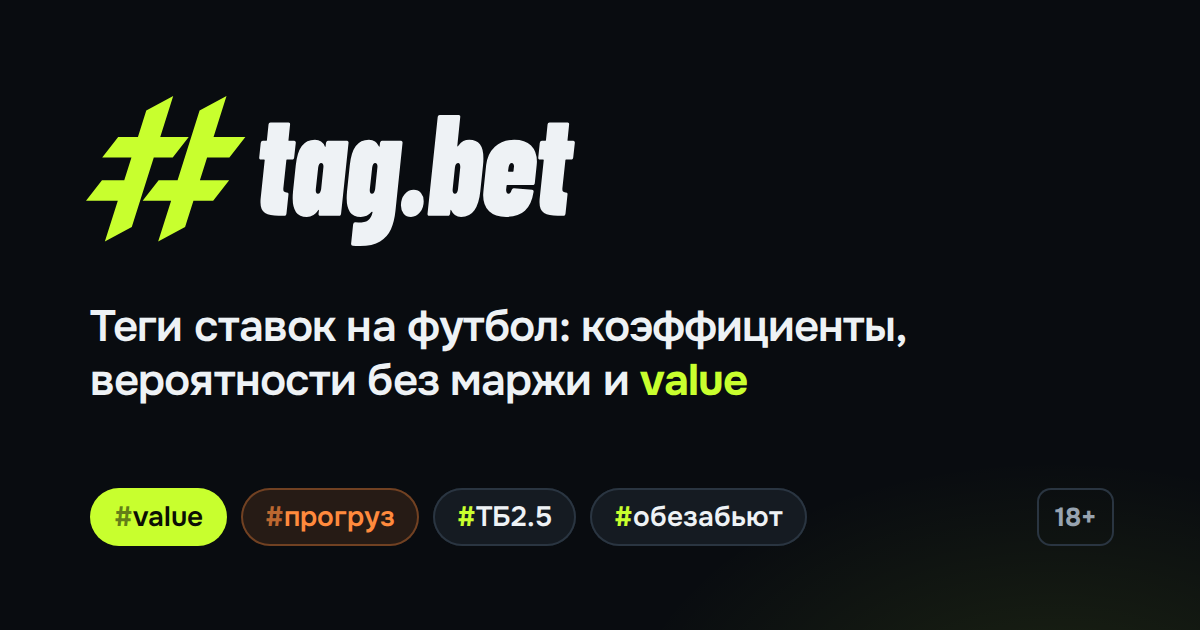
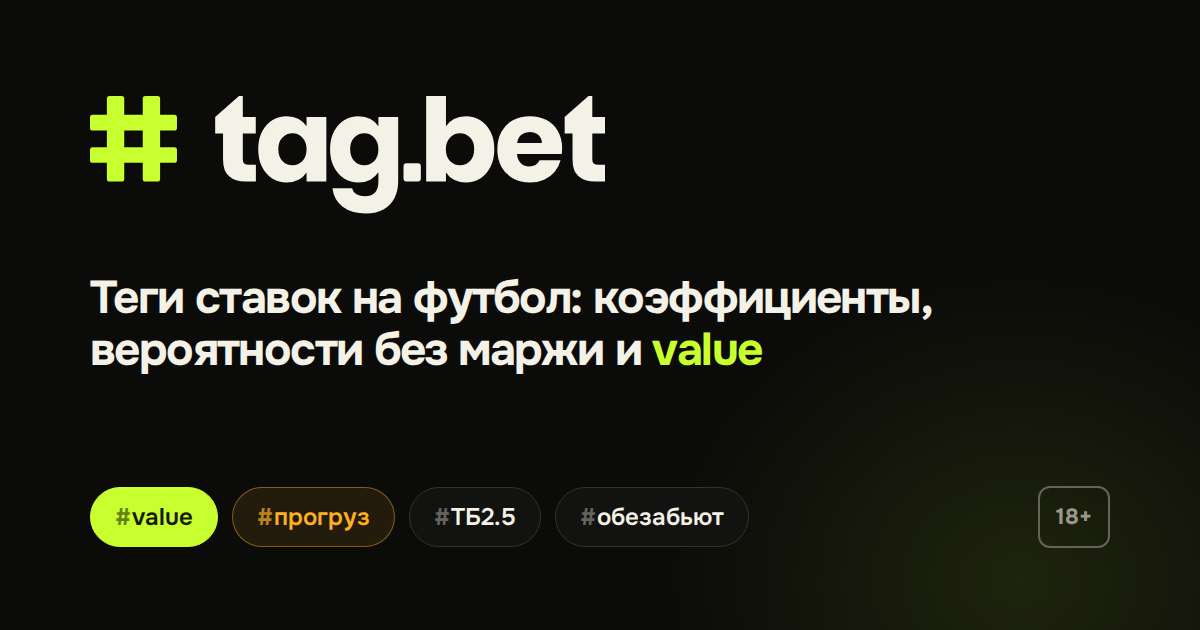
Новый логотип: прямая решётка + tag.bet (Poppins Bold) в кривых
- Перерисован в вектор по утверждённому варианту: надпись — Poppins
  Bold (SIL OFL) со срезом у «t» от кончика перекладины к верху и
  точкой-квадратом; решётка прямая, высотой с «b», по базовой линии.
  Дефекты растра (хвост «g», «язык» у «e», волнистые края) ушли.
- Цвета — как на сайте: лайм #C8FF2E, тёплый белый #F4F1E6.
- Заменены: знак в шапке и в кружке «Все теги», логотип в подвале,
  иконка вкладки, иконка для iPhone, аватарка, превью ссылок (og.png)
  и файлы в public/brand.

Claude-Session: https://claude.ai/code/session_01LqCxNKeCAKNwhNzoBsjYvY

diff --git a/components/logo-paths.ts b/components/logo-paths.ts
@@ -1,12 +1,12 @@
-// Сгенерировано из векторной версии логотипа (знак — переплетённая решётка,
-// надпись — Barlow Condensed Black Italic в кривых, лицензия SIL OFL).
+// Сгенерировано из векторной версии логотипа: знак — прямая решётка (бруски чуть
+// тоньше штриха букв, высота = высоте «b»), надпись — Poppins Bold (SIL OFL) в кривых:
+// у «t» срез от кончика перекладины к верху, точка — скруглённый квадрат, набор плотный.
 // Файлы для внешнего использования — в public/brand/.
-export const LOGO_VIEWBOX = '0 0 859.4 263.7'
-export const MARK_VIEWBOX = '0 0 280.17 256'
-export const LOGO_ASPECT = 3.2592
-export const MARK_ASPECT = 1.0944
+export const LOGO_VIEWBOX = '0 0 4455 1020'
+export const MARK_VIEWBOX = '0 0 752 740'
+export const LOGO_ASPECT = 4.3676
+export const MARK_ASPECT = 1.0162
 export const MARK_D =
-  'M153.30 0.00L105.95 25.57L91.28 72.00L56.58 72.00L28.50 108.00L79.91 108.00L67.27 148.00L28.08 148.00L0.00 184.00L55.90 184.00L33.15 256.00L80.49 230.43L119.18 108.00L152.50 108.00L180.58 72.00L130.55 72.00ZM126.87 256.00L174.21 230.43L188.89 184.00L223.58 184.00L251.67 148.00L200.26 148.00L212.90 108.00L252.08 108.00L280.17 72.00L224.27 72.00L247.02 0.00L199.68 25.57L160.99 148.00L127.67 148.00L99.58 184.00L149.62 184.00Z'
-export const TEXT_TRANSFORM = 'matrix(0.217741 0 0 0.253187 297.14 210.51)'
+  'M146 718Q146 740 168 740H274Q296 740 296 718V578H456V718Q456 740 478 740H584Q606 740 606 718V578H730Q752 578 752 556V464Q752 442 730 442H606V298H730Q752 298 752 276V184Q752 162 730 162H606V22Q606 0 584 0H478Q456 0 456 22V162H296V22Q296 0 274 0H168Q146 0 146 22V162H22Q0 162 0 184V276Q0 298 22 298H146V442H22Q0 442 0 464V556Q0 578 22 578H146ZM296 442V298H456V442Z'
 export const TEXT_D =
-  'M300 -390H258Q253 -390 253 -385L229 -192Q227 -174 234.0 -167.5Q241 -161 256 -162H258Q264 -162 267.5 -158.0Q271 -154 270 -147L254 -15Q253 -8 248.5 -4.0Q244 0 238 0H191Q118 0 81.0 -19.0Q44 -38 44 -93Q44 -108 45 -116L78 -385Q80 -390 74 -390H47Q40 -390 36.5 -394.0Q33 -398 34 -405L46 -505Q49 -520 63 -520H90Q94 -520 96 -525L109 -633Q110 -640 114.0 -644.0Q118 -648 125 -648H271Q277 -648 280.5 -644.0Q284 -640 283 -633L270 -525Q270 -520 274 -520H316Q323 -520 326.5 -516.0Q330 -512 329 -505L316 -405Q315 -398 311.0 -394.0Q307 -390 300 -390ZM589.0 -520H743.0Q749.0 -520 752.5 -516.0Q756.0 -512 755.0 -505L695.0 -15Q694.0 -8 690.0 -4.0Q686.0 0 679.0 0H526.0Q519.0 0 515.5 -4.0Q512.0 -8 513.0 -15L516.0 -37Q516.0 -41 514.0 -41.0Q512.0 -41 510.0 -38Q476.0 8 418.0 8Q358.0 8 331.0 -25.0Q304.0 -58 304.0 -121Q304.0 -145 307.0 -170L329.0 -350Q340.0 -439 377.5 -483.5Q415.0 -528 484.0 -528Q542.0 -528 564.0 -481Q566.0 -478 568.0 -478.5Q570.0 -479 570.0 -483L573.0 -505Q574.0 -512 578.5 -516.0Q583.0 -520 589.0 -520ZM534.0 -185 552.0 -335Q554.0 -349 549.0 -358.0Q544.0 -367 534.0 -367Q524.0 -367 518.0 -358.0Q512.0 -349 510.0 -335L491.0 -185Q489.0 -170 493.5 -161.5Q498.0 -153 508.0 -153Q518.0 -153 525.0 -162.0Q532.0 -171 534.0 -185ZM1025.0 -520H1179.0Q1185.0 -520 1188.5 -516.0Q1192.0 -512 1191.0 -505L1134.0 -34Q1125.0 41 1097.5 94.0Q1070.0 147 1009.5 178.5Q949.0 210 847.0 210Q810.0 210 789.0 208Q774.0 208 776.0 193L792.0 60Q795.0 45 810.0 46Q882.0 50 911.0 32.5Q940.0 15 949.0 -24Q950.0 -27 946.0 -28.0Q942.0 -29 940.0 -26Q906.0 8 854.0 8Q794.0 8 767.0 -25.0Q740.0 -58 740.0 -121Q740.0 -145 743.0 -170L765.0 -350Q776.0 -439 813.5 -483.5Q851.0 -528 920.0 -528Q978.0 -528 1000.0 -482Q1002.0 -479 1004.0 -479.0Q1006.0 -479 1006.0 -483L1009.0 -505Q1010.0 -512 1014.5 -516.0Q1019.0 -520 1025.0 -520ZM970.0 -185 988.0 -335Q990.0 -349 985.0 -358.0Q980.0 -367 970.0 -367Q960.0 -367 954.0 -358.0Q948.0 -349 946.0 -335L927.0 -185Q925.0 -170 929.5 -161.5Q934.0 -153 944.0 -153Q954.0 -153 961.0 -162.0Q968.0 -171 970.0 -185ZM1178.0 -72Q1178.0 -119 1208.0 -149.5Q1238.0 -180 1282.0 -180Q1318.0 -180 1340.0 -158.0Q1362.0 -136 1362.0 -101Q1362.0 -55 1332.0 -23.5Q1302.0 8 1259.0 8Q1222.0 8 1200.0 -14.5Q1178.0 -37 1178.0 -72ZM1844.0 -400Q1844.0 -377 1841.0 -350L1819.0 -170Q1809.0 -84 1771.5 -38.0Q1734.0 8 1664.0 8Q1607.0 8 1584.0 -38Q1582.0 -41 1580.0 -41.0Q1578.0 -41 1578.0 -37L1575.0 -15Q1574.0 -8 1569.5 -4.0Q1565.0 0 1559.0 0H1405.0Q1399.0 0 1395.5 -4.0Q1392.0 -8 1393.0 -15L1475.0 -685Q1476.0 -692 1480.5 -696.0Q1485.0 -700 1491.0 -700H1645.0Q1651.0 -700 1654.5 -696.0Q1658.0 -692 1657.0 -685L1633.0 -483V-482Q1633.0 -481 1634.0 -481Q1636.0 -481 1645.0 -490Q1677.0 -528 1730.0 -528Q1788.0 -528 1816.0 -496.0Q1844.0 -464 1844.0 -400ZM1657.0 -342Q1657.0 -353 1652.5 -360.0Q1648.0 -367 1641.0 -367Q1631.0 -367 1623.5 -358.5Q1616.0 -350 1614.0 -335L1596.0 -185Q1594.0 -171 1599.0 -162.0Q1604.0 -153 1614.0 -153Q1624.0 -153 1630.5 -161.5Q1637.0 -170 1639.0 -185L1657.0 -335ZM2243.0 -213H2036.0Q2034.0 -213 2032.5 -211.5Q2031.0 -210 2031.0 -208L2028.0 -185Q2026.0 -171 2031.5 -162.0Q2037.0 -153 2047.0 -153Q2064.0 -153 2072.0 -178Q2078.0 -192 2090.0 -191L2237.0 -181Q2252.0 -179 2249.0 -165Q2233.0 -77 2179.0 -34.5Q2125.0 8 2027.0 8Q1938.0 8 1890.0 -31.0Q1842.0 -70 1842.0 -142Q1842.0 -150 1844.0 -170L1866.0 -350Q1876.0 -431 1936.5 -479.5Q1997.0 -528 2093.0 -528Q2181.0 -528 2228.5 -487.0Q2276.0 -446 2276.0 -376Q2276.0 -368 2274.0 -350L2259.0 -228Q2258.0 -221 2254.0 -217.0Q2250.0 -213 2243.0 -213ZM2047.0 -335 2043.0 -310Q2043.0 -305 2048.0 -305H2082.0Q2087.0 -305 2087.0 -310L2090.0 -335L2091.0 -343Q2091.0 -353 2086.0 -360.0Q2081.0 -367 2073.0 -367Q2063.0 -367 2056.0 -358.0Q2049.0 -349 2047.0 -335ZM2553.0 -390H2511.0Q2506.0 -390 2506.0 -385L2482.0 -192Q2480.0 -174 2487.0 -167.5Q2494.0 -161 2509.0 -162H2511.0Q2517.0 -162 2520.5 -158.0Q2524.0 -154 2523.0 -147L2507.0 -15Q2506.0 -8 2501.5 -4.0Q2497.0 0 2491.0 0H2444.0Q2371.0 0 2334.0 -19.0Q2297.0 -38 2297.0 -93Q2297.0 -108 2298.0 -116L2331.0 -385Q2333.0 -390 2327.0 -390H2300.0Q2293.0 -390 2289.5 -394.0Q2286.0 -398 2287.0 -405L2299.0 -505Q2302.0 -520 2316.0 -520H2343.0Q2347.0 -520 2349.0 -525L2362.0 -633Q2363.0 -640 2367.0 -644.0Q2371.0 -648 2378.0 -648H2524.0Q2530.0 -648 2533.5 -644.0Q2537.0 -640 2536.0 -633L2523.0 -525Q2523.0 -520 2527.0 -520H2569.0Q2576.0 -520 2579.5 -516.0Q2583.0 -512 2582.0 -505L2569.0 -405Q2568.0 -398 2564.0 -394.0Q2560.0 -390 2553.0 -390Z'
+  'M1434 595V740H1347Q1254 740 1202 694.5Q1150 649 1150 546V324H1082V182L1288 0H1321V182H1433V324H1321V548Q1321 573 1333 584Q1345 595 1373 595ZM1700 174Q1759 174 1803.5 198Q1848 222 1872 261V182H2043V740H1872V661Q1847 700 1802.5 724Q1758 748 1699 748Q1631 748 1575 712.5Q1519 677 1486.5 611.5Q1454 546 1454 460Q1454 374 1486.5 309Q1519 244 1575 209Q1631 174 1700 174ZM1750 323Q1699 323 1663.5 359.5Q1628 396 1628 460Q1628 524 1663.5 561.5Q1699 599 1750 599Q1801 599 1836.5 562Q1872 525 1872 461Q1872 397 1836.5 360Q1801 323 1750 323ZM2493 261V182H2664V739Q2664 816 2633.5 878.5Q2603 941 2540.5 978Q2478 1015 2385 1015Q2261 1015 2184 956.5Q2107 898 2096 798H2265Q2273 830 2303 848.5Q2333 867 2377 867Q2430 867 2461.5 836.5Q2493 806 2493 739V660Q2468 699 2424 723.5Q2380 748 2321 748Q2252 748 2196 712.5Q2140 677 2107.5 611.5Q2075 546 2075 460Q2075 374 2107.5 309Q2140 244 2196 209Q2252 174 2321 174Q2380 174 2424.5 198Q2469 222 2493 261ZM2371 323Q2320 323 2284.5 359.5Q2249 396 2249 460Q2249 524 2284.5 561.5Q2320 599 2371 599Q2422 599 2457.5 562Q2493 525 2493 461Q2493 397 2457.5 360Q2422 323 2371 323ZM2736 740H2834Q2860 740 2860 714V608Q2860 582 2834 582H2736Q2710 582 2710 608V714Q2710 740 2736 740ZM3249 174Q3318 174 3374 209Q3430 244 3462.5 309Q3495 374 3495 460Q3495 546 3462.5 611.5Q3430 677 3374 712.5Q3318 748 3249 748Q3190 748 3146 724.5Q3102 701 3077 662V740H2906V0H3077V261Q3101 222 3146 198Q3191 174 3249 174ZM3198 323Q3147 323 3111.5 360Q3076 397 3076 461Q3076 525 3111.5 562Q3147 599 3198 599Q3249 599 3285 561.5Q3321 524 3321 460Q3321 396 3285.5 359.5Q3250 323 3198 323ZM4078 502H3691Q3695 554 3724.5 581.5Q3754 609 3797 609Q3861 609 3886 555H4068Q4054 610 4017.5 654Q3981 698 3926 723Q3871 748 3803 748Q3721 748 3657 713Q3593 678 3557 613Q3521 548 3521 461Q3521 374 3556.5 309Q3592 244 3656 209Q3720 174 3803 174Q3884 174 3947 208Q4010 242 4045.5 305Q4081 368 4081 452Q4081 476 4078 502ZM3906 407Q3906 363 3876 337Q3846 311 3801 311Q3758 311 3728.5 336Q3699 361 3692 407ZM4455 595V740H4368Q4275 740 4223 694.5Q4171 649 4171 546V324H4103V182L4309 0H4342V182H4454V324H4342V548Q4342 573 4354 584Q4366 595 4394 595Z'

diff --git a/components/Logo.tsx b/components/Logo.tsx
@@ -1,6 +1,6 @@
-import { LOGO_ASPECT, LOGO_VIEWBOX, MARK_ASPECT, MARK_D, MARK_VIEWBOX, TEXT_D, TEXT_TRANSFORM } from './logo-paths'
+import { LOGO_ASPECT, LOGO_VIEWBOX, MARK_ASPECT, MARK_D, MARK_VIEWBOX, TEXT_D } from './logo-paths'
 
-/** Знак tag.bet: переплетённая решётка (каждая перекладина проходит «под» второй вертикалью). */
+/** Знак tag.bet: прямая лаймовая решётка. size — высота в px. */
 export function LogoMark({ size = 28, className = '' }: { size?: number; className?: string }) {
   return (
     <svg viewBox={MARK_VIEWBOX} height={size} width={Math.round(size * MARK_ASPECT)} className={`shrink-0 ${className}`} aria-hidden>
@@ -9,7 +9,10 @@ export function LogoMark({ size = 28, className = '' }: { size?: number; classNa
   )
 }
 
-/** Логотип целиком, в кривых. size — высота в px; надпись берёт цвет текста (currentColor). */
+/**
+ * Логотип целиком, в кривых: решётка + «tag.bet». size — высота в px вместе
+ * с хвостом «g»; надпись берёт цвет текста (currentColor).
+ */
 export function Logo({ size = 28, className = '' }: { size?: number; className?: string }) {
   return (
     <svg
@@ -21,7 +24,7 @@ export function Logo({ size = 28, className = '' }: { size?: number; className?:
       aria-label="tag.bet"
     >
       <path className="fill-acid" d={MARK_D} />
-      <path fill="currentColor" transform={TEXT_TRANSFORM} d={TEXT_D} />
+      <path fill="currentColor" d={TEXT_D} />
     </svg>
   )
 }

diff --git a/components/Footer.tsx b/components/Footer.tsx
@@ -7,7 +7,7 @@ export function Footer() {
     <footer className="mt-20 border-t border-edge">
       <div className="mx-auto grid max-w-6xl gap-8 px-4 py-10 sm:grid-cols-[1.4fr_1fr_1fr]">
         <div>
-          <Logo size={24} />
+          <Logo size={30} />
           <p className="mt-3 max-w-sm text-sm leading-relaxed text-dim">
             Теги ставок на футбол: сравнение коэффициентов, вероятности без маржи, форма команд и прогнозы на основе данных.
           </p>

diff --git a/README.md b/README.md
@@ -77,8 +77,9 @@ value, прогрузы, теги) и по кружку на каждый тег
 
 ## Бренд
 
-Логотип — переплетённая решётка (каждая перекладина проходит «под» второй вертикалью) и надпись
-`tag.bet` в кривых (Barlow Condensed Black Italic, SIL OFL). Файлы — в `public/brand/`:
+Логотип — прямая лаймовая решётка и надпись `tag.bet` в кривых: Poppins Bold (SIL OFL) с фирменным
+срезом у «t» (от кончика перекладины к верху) и точкой-квадратом. Решётка — той же высоты, что «b»,
+бруски чуть тоньше штриха букв. В шапке — только решётка в кружке. Файлы — в `public/brand/`:
 
 | Файл | Где использовать |
 | --- | --- |
